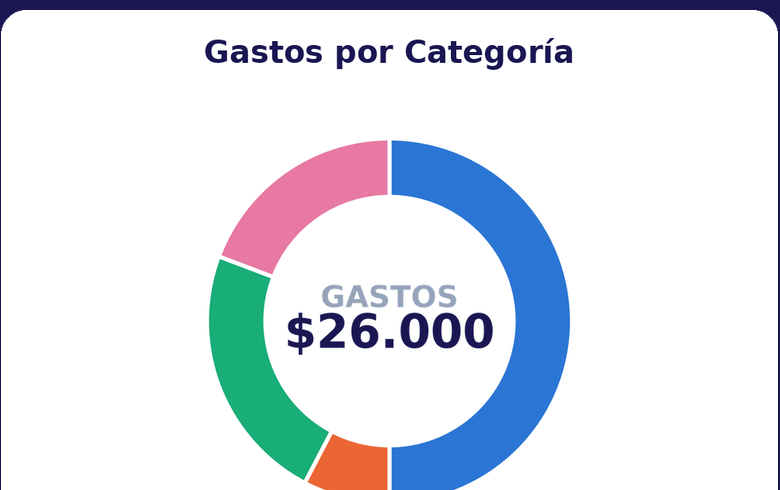
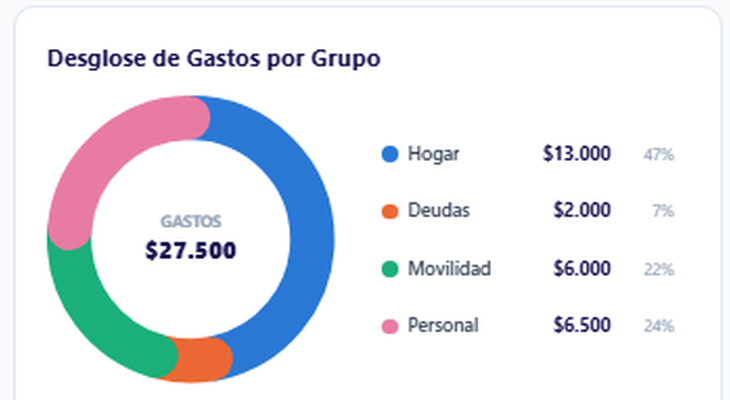
Quiz gauge/chart fixes, real donut image, brighter price label
- computeScore now starts lower (35) and caps at 60, so a typical
  diagnosis lands in the red zone or just barely into yellow instead
  of comfortably mid-yellow, and never shows Zona Verde before the
  person has used the system.
- Projection chart (result of the "deseo" question) gets a light grid
  background plus X/Y axis lines so the trend line isn't floating in
  empty space.
- Swapped the ingreso_variable result image for a real crop of the
  "Desglose de Gastos por Grupo" donut straight from the actual app
  screenshot, replacing a mismatched mockup crop.
- /oferta price box: "Empezá hoy" label is bigger, fully white, and
  sits closer to the top of the card.

Claude-Session: https://claude.ai/code/session_01MNeKKPnViqG5ZjgVQEQbJx

diff --git a/plano-money/src/quizzes/planoMoneyQuiz.js b/plano-money/src/quizzes/planoMoneyQuiz.js
@@ -179,18 +179,21 @@ export const PLANO_MONEY_QUIZ = {
     },
   ],
 
-  // Heurística simple 0-100: arranca en 55 y suma/resta según respuestas.
+  // Heurística simple 0-100: arranca en 35 (justo entrando en zona
+  // amarilla) y suma/resta según respuestas. El techo se limita a 60 a
+  // propósito: nadie debería ver "Zona Verde" en el diagnóstico, esa zona
+  // es la promesa de después de usar el sistema, no el punto de partida.
   computeScore(answers) {
-    let score = 55
-    const bump = { ansioso: -15, frustrado: -10, culpa: -12, esperanzado: 5 }
+    let score = 35
+    const bump = { ansioso: -12, frustrado: -8, culpa: -10, esperanzado: 10 }
     score += bump[answers.emocion] || 0
-    if (answers.acuerdo_gasto >= 4) score -= 12
-    if (answers.acuerdo_gasto <= 2) score += 8
+    if (answers.acuerdo_gasto >= 4) score -= 10
+    if (answers.acuerdo_gasto <= 2) score += 10
     if (answers.intentos_previos === 'nunca') score -= 5
-    if (answers.compromiso === 'si') score += 10
-    if (answers.compromiso === 'dudas') score -= 5
-    if (answers.area_afectada === 'todo') score -= 8
-    return Math.max(5, Math.min(95, Math.round(score)))
+    if (answers.compromiso === 'si') score += 8
+    if (answers.compromiso === 'dudas') score -= 8
+    if (answers.area_afectada === 'todo') score -= 6
+    return Math.max(5, Math.min(60, Math.round(score)))
   },
 
   // `key` identifies which /oferta hero variant (PROFILE_HERO in

diff --git a/plano-money/src/components/quiz/QuizEngine.jsx b/plano-money/src/components/quiz/QuizEngine.jsx
@@ -309,7 +309,15 @@ export default function QuizEngine({ data }) {
               <h2 className="text-xl font-black text-navy-900">{fill(step.title)}</h2>
               <p className="text-base text-slate-500">{fill(step.subtitle)}</p>
               <div className="bg-slate-50 rounded-2xl p-4">
-                <svg viewBox="0 0 200 80" className="w-full">
+                <svg viewBox="0 0 200 90" className="w-full">
+                  <defs>
+                    <pattern id="projectionGrid" width="20" height="16" patternUnits="userSpaceOnUse">
+                      <path d="M 20 0 L 0 0 0 16" fill="none" stroke="#e2e8f0" strokeWidth="1" />
+                    </pattern>
+                  </defs>
+                  <rect x="0" y="0" width="200" height="80" fill="url(#projectionGrid)" />
+                  <line x1="0" y1="0" x2="0" y2="80" stroke="#94a3b8" strokeWidth="1.5" />
+                  <line x1="0" y1="80" x2="200" y2="80" stroke="#94a3b8" strokeWidth="1.5" />
                   <polyline points="0,60 30,65 60,58 90,68" fill="none" stroke="#ef4444" strokeWidth="4" strokeLinecap="round" />
                   <polyline points="90,68 120,45 150,25 200,10" fill="none" stroke="#10b981" strokeWidth="4" strokeLinecap="round" />
                 </svg>

diff --git a/plano-money/src/pages/SalesPagePlanoMoney.jsx b/plano-money/src/pages/SalesPagePlanoMoney.jsx
@@ -297,10 +297,10 @@ export default function SalesPagePlanoMoney() {
             </p>
           </div>
 
-          <div className="relative bg-navy-900 rounded-2xl p-6 sm:p-7 text-center space-y-4 overflow-hidden">
+          <div className="relative bg-navy-900 rounded-2xl p-6 sm:p-7 pt-4 text-center space-y-4 overflow-hidden">
             <div className="absolute -top-10 -right-10 w-40 h-40 bg-lila-500/30 rounded-full blur-2xl" />
             <div className="absolute -bottom-10 -left-10 w-40 h-40 bg-celeste-500/30 rounded-full blur-2xl" />
-            <p className="relative text-white/70 text-base font-bold uppercase">Empezá hoy</p>
+            <p className="relative text-white text-xl font-black uppercase">Empezá hoy</p>
 
             <div className="relative grid grid-cols-2 gap-3">
               <a href={CHECKOUT_URL} className="block bg-white/5 hover:bg-white/10 border border-celeste-400/40 rounded-xl p-4 transition">
